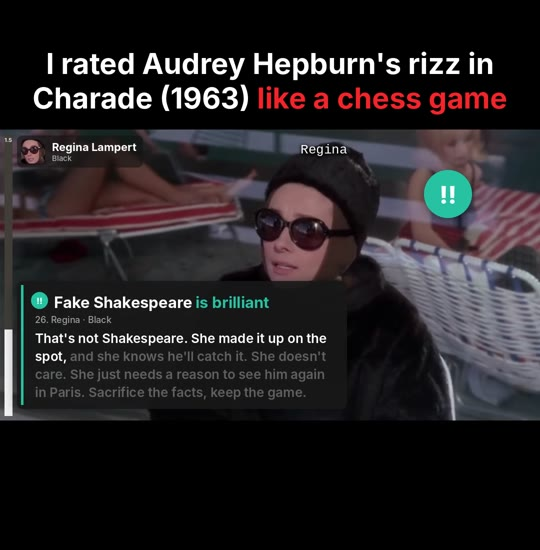
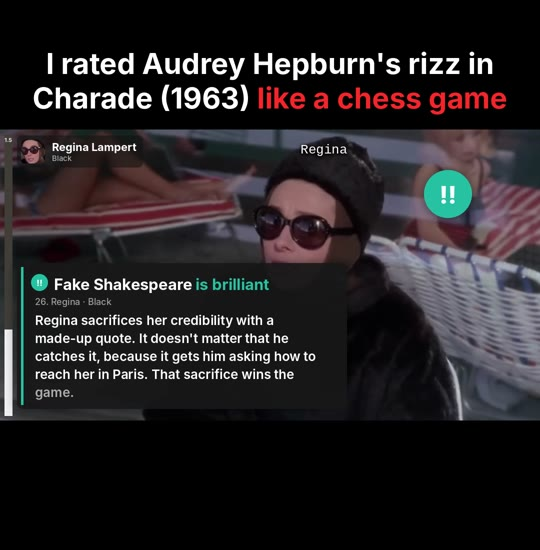
chess-rater: chess.com sounds, coach-style narration, readable captions
- Use the official chess.com sound theme (move, capture, check, game
  start/end, notify), fetched from chess.com on first render instead of
  bundled; replaces the synthesized effects.
- Card voice-overs open with the Game Review coach phrase for the move's
  rating ("That's a blunder!", "Excellent move.").
- Card text is always readable: no blur on the hook card, and words not
  yet spoken stay light grey instead of faded.
- Header wording matches chess.com ("is a great move").
- Re-rate the Charade demo the way chess.com would (one brilliant, mostly
  good/excellent, honest inaccuracies) and rewrite comments in coach style.
- README: rating guide, coach-style writing tips, sound options.

Claude-Session: https://claude.ai/code/session_0191FxL3gznTFuEVCnR41hVc

diff --git a/chess-rater/chessrate.py b/chess-rater/chessrate.py
@@ -41,7 +41,7 @@ KOKORO_URLS = {
 # key: (label, card phrase, colour, glyph, accuracy score)
 CLASSES = {
     "brilliant": ("Brilliant", "is brilliant", "#26c2a3", "!!", 100),
-    "great": ("Great", "is great", "#749bbf", "!", 100),
+    "great": ("Great", "is a great move", "#749bbf", "!", 100),
     "best": ("Best", "is best", "#81b64c", "star", 100),
     "excellent": ("Excellent", "is excellent", "#81b64c", "thumb", 92),
     "good": ("Good", "is good", "#95b776", "check", 80),
@@ -51,6 +51,24 @@ CLASSES = {
     "miss": ("Miss", "is a miss", "#ff7769", "x", 30),
     "blunder": ("Blunder", "is a blunder", "#fa412d", "??", 15),
 }
+
+# what the Game Review coach says before explaining a move
+COACH_INTRO = {
+    "brilliant": "Brilliant!",
+    "great": "Great move!",
+    "best": "That's the best move.",
+    "excellent": "Excellent move.",
+    "good": "Good move.",
+    "book": "That's a book move.",
+    "inaccuracy": "That's an inaccuracy.",
+    "mistake": "That's a mistake.",
+    "miss": "That's a miss.",
+    "blunder": "That's a blunder!",
+}
+POSITIVE = {"brilliant", "great", "best", "excellent", "good", "book"}
+
+# official chess.com sound theme, fetched on first use (not redistributed with this repo)
+SOUND_URL = "https://images.chesscomfiles.com/chess-themes/sounds/_MP3_/default/{}.mp3"
 
 WHITE = (255, 255, 255, 255)
 ACCENT = "#f2242b"
@@ -451,27 +469,17 @@ def word_times(display_text, spans):
 
 
 # --------------------------------------------------------------------------
-# synthesized sound effects
+# sound effects (chess.com sound theme)
 
-def sfx_tock():
-    n = int(0.12 * SR)
-    t = np.arange(n) / SR
-    body = (np.sin(2 * np.pi * 540 * t) * 0.55 + np.sin(2 * np.pi * 1180 * t) * 0.22) * np.exp(-t * 48)
-    click = np.random.default_rng(1).standard_normal(n) * np.exp(-t * 900) * 0.25
-    return ((body + click) * 0.32).astype(np.float32)
-
-
-def sfx_whoosh(d=0.75):
-    n = int(d * SR)
-    x = np.random.default_rng(2).standard_normal(n).astype(np.float32)
-    y = np.zeros(n, np.float32)
-    coef = np.linspace(0.45, 0.04, n)
-    acc = 0.0
-    for i in range(n):
-        acc += coef[i] * (x[i] - acc)
-        y[i] = acc
-    env = np.sin(np.linspace(0, np.pi, n)) ** 1.5
-    return (y * env * 0.5 / (np.max(np.abs(y)) + 1e-6)).astype(np.float32)
+def load_sound(name, folder):
+    path = os.path.join(folder, name + ".mp3")
+    if not os.path.exists(path):
+        os.makedirs(folder, exist_ok=True)
+        urllib.request.urlretrieve(SOUND_URL.format(name), path + ".part")
+        os.replace(path + ".part", path)
+    raw = run(["ffmpeg", "-v", "error", "-i", path, "-ac", "1", "-ar", str(SR), "-f", "f32le", "-"],
+              capture_output=True).stdout
+    return np.frombuffer(raw, np.float32).copy()
 
 
 # --------------------------------------------------------------------------
@@ -565,15 +573,20 @@ class Project:
             t += dur
             return sp
 
+        coach = cfg.get("coach_intro", True)
+
         def card_hold(move, phase, vo_text, blur=False):
-            audio, spans = self.voice.say(vo_text)
+            intro = COACH_INTRO[move["class"]] if coach and not blur else ""
+            audio, spans = self.voice.say((intro + " " + vo_text).strip())
+            if intro:
+                spans = spans[len(split_sentences(speakable(intro))):] or spans
             lead, tail = 0.45, 0.7
             sp = hold(move["t"], lead + len(audio) / SR + tail, phase)
             self.clips.append(Clip(sp.t0 + lead, audio))
             words = [sp.t0 + lead + w for w in word_times(move.get("comment", vo_text), spans)]
             show = Show(len(self.shows), move, sp.t0, sp.t1, True, blur, words)
             self.shows.append(show)
-            self.sfx.append((sp.t0, "tock"))
+            self.sfx.append((sp.t0, self.move_sound(move)))
             if "eval" in move:
                 self.evals.append((sp.t0, move["eval"], True))
             return sp
@@ -588,7 +601,7 @@ class Project:
             card_hold(hook_move, "hook", hook.get("vo", ""), blur=True)
             self.spans.append(Span("rewind", t, t + 0.8, hook_move["t"], main_start, "hook"))
             self.evals.append((t, 0.0, True))
-            self.sfx.append((t, "whoosh"))
+            self.sfx.append((t, "premove"))
             t += 0.8
         else:
             self.evals.append((0.0, 0.0, False))
@@ -620,7 +633,7 @@ class Project:
             if ot is None:
                 continue
             self.shows.append(Show(len(self.shows), m, ot, ot + 2.8, False))
-            self.sfx.append((ot, "tock"))
+            self.sfx.append((ot, self.move_sound(m)))
             if "eval" in m:
                 self.evals.append((ot, m["eval"], True))
         # review panel + outro voice-over, then hold on the final frame
@@ -637,6 +650,11 @@ class Project:
             if sp.t0 >= self.review_t - 1e-6 and sp.phase == "main":
                 sp.phase = "review"
         self.duration = t
+        self.sfx.append((0.0, "game-start"))
+        if not any(name == "game-end" and self.review_t - 4 <= at <= self.review_t for at, name in self.sfx):
+            self.sfx.append((self.review_t, "game-end"))
+        else:
+            self.sfx.append((self.review_t, "notify"))
         # each move stays on screen until the next one appears
         self.shows.sort(key=lambda s: s.t0)
         for a, b in zip(self.shows, self.shows[1:]):
@@ -649,6 +667,16 @@ class Project:
         for s in self.shows:
             s.t1 = min(s.t1, self.review_t)
         self.evals.sort(key=lambda e: e[0])
+
+    @staticmethod
+    def move_sound(move):
+        if isinstance(move.get("eval"), str) and move["eval"] in ("1-0", "0-1"):
+            return "game-end"
+        if move.get("comment"):
+            return "capture" if move["class"] in POSITIVE else "move-check"
+        if move["class"] not in POSITIVE:
+            return "move-check" if move["class"] in ("mistake", "blunder") else "move-opponent"
+        return "move-self" if move["side"] == "white" else "move-opponent"
 
     def find_move(self, name):
         for m in self.moves:
@@ -838,11 +866,9 @@ class Renderer:
         for li, line in enumerate(lines):
             x = pad + 8
             for wi in line:
-                c = WHITE if wi < lit else (255, 255, 255, 82)
+                c = WHITE if wi < lit else (255, 255, 255, 165)
                 draw_text(body, (x, li * line_h), words[wi], bf, c)
                 x += bf.getlength(words[wi]) + space
-        if show.blur:
-            body = body.filter(ImageFilter.GaussianBlur(7))
         img.alpha_composite(body, (0, 98))
         out = with_shadow(img, 12, 150)
         self.cache[key] = out
@@ -973,7 +999,8 @@ class Renderer:
             b = b.resize((max(1, int(b.width * s)), max(1, int(b.height * s))), Image.LANCZOS)
         alpha_paste(clip, fade(b, alpha), (cx - b.width / 2, cy - b.height / 2 + 2 * s))
         if show.card:
-            img = self.card(show, sum(1 for wt in show.words if wt <= t))
+            lit = len(show.words) if show.blur else sum(1 for wt in show.words if wt <= t)
+            img = self.card(show, lit)
             ca = clamp((age - 0.15) / 0.25, 0, 1)
             side = self.card_side(move)
             pad = 24  # shadow padding
@@ -1092,9 +1119,13 @@ def build_audio(p, t_from, t_to):
             if j1 > j0:
                 duck[i + j0:i + j1] = np.minimum(duck[i + j0:i + j1], env[j0:j1])
     if p.cfg.get("sfx", True):
-        tock, whoosh = sfx_tock(), sfx_whoosh()
-        for at, kind in p.sfx:
-            place(fx, at, tock if kind == "tock" else whoosh)
+        folder = os.path.join(p.base, p.cfg["sounds"]) if p.cfg.get("sounds") else os.path.join(HERE, "sounds")
+        gain = float(p.cfg.get("sfx_volume", 0.7))
+        cache = {}
+        for at, name in p.sfx:
+            if name not in cache:
+                cache[name] = load_sound(name, folder)
+            place(fx, at, cache[name], gain)
     mix = scene * duck[:, None] + (vo * 1.0 + fx)[:, None]
     return np.clip(mix, -1, 1)
 

diff --git a/chess-rater/README.md b/chess-rater/README.md
@@ -10,7 +10,9 @@ commentary). It renders a finished 1080×1920 MP4 with:
 - chess.com-style player tags (White at the bottom, Black at the top) and a live eval bar
 - name labels over each character, shot by shot
 - move badges (`!!` brilliant, `!` great, ★ best, 👍 excellent, ✓ good, 📖 book, `?!`, `?`, ✕, `??`)
-- freeze frames with a commentary card, read aloud by an AI voice while the words light up
+- freeze frames with a commentary card, read aloud by an AI voice in chess.com Game Review
+  coach style ("That's a blunder!", "Excellent move.") while the words light up
+- the official chess.com move, capture, check and game start/end sounds
 - a cold-open hook that teases the big move, then rewinds to the start
 - a closing **Game Review** with accuracy scores, move counts and the result
 
@@ -26,7 +28,10 @@ Everything runs locally and needs no paid services. The voice-over uses
    pip install -r requirements.txt
    ```
 
-The first render downloads the voice model (about 340 MB) into `models/`.
+The first render downloads the voice model (about 340 MB) into `models/` and the chess.com
+sound files into `sounds/`. The sounds are fetched from chess.com's site and aren't stored in
+this repo. Set `"sfx": false` to turn them off, or point `"sounds"` at a folder with your own
+`move-self.mp3`, `capture.mp3`, and so on.
 
 ## Render the demo
 
@@ -70,6 +75,8 @@ of the video frame: `0,0` is top-left and `1,1` is bottom-right.
   "title": {"text": "I rated Mike Ross's job interview", "accent": "like a chess game"},
   "voice": "af_heart",            // Kokoro voice: af_heart, af_bella, am_michael, am_puck, bm_george, ...
   "speed": 1.05,
+  "coach_intro": true,            // each card's voice-over starts "That's a blunder!", "Excellent move." ...
+  "sfx_volume": 0.7,              // chess.com sounds: move/capture on badges, check on bad cards, game start/end
   "crop": "auto",                 // trims letterbox bars; or [w, h, x, y]; or false
   "players": {
     "white": {"name": "Mike Ross", "short": "Mike",
@@ -107,6 +114,26 @@ of the video frame: `0,0` is top-left and `1,1` is bottom-right.
   a left card briefly hides the bottom player tag. Pick the side that keeps faces visible.
 - **Timing**: the freeze lasts as long as the voice-over, so keep each comment to about
   25–40 words.
+
+## Rating guide
+
+Rate lines the way chess.com rates moves, and don't inflate the ratings:
+
+| Rating | Use it for | How often |
+|---|---|---|
+| Brilliant `!!` | the single best line, usually a "sacrifice" that wins anyway | once per video at most |
+| Great `!` | the only reply that saves or wins the exchange | 1–2 |
+| Best ★ | the strongest possible reply in that moment | a few |
+| Excellent 👍 | clever, strong lines | often |
+| Good ✓ | solid, normal lines | most common |
+| Book 📖 | standard openers ("Hi, nice to meet you") | opening only |
+| Inaccuracy `?!` / Mistake `?` / Blunder `??` | weak, bad and game-losing lines | as deserved |
+
+Write card comments the way the Game Review coach talks: say what the move does, then where
+the game stands. For example: *"He accepted the rejection, so she punishes him for it. Black
+keeps the initiative."* The coach's opener ("That's the best move.") is added automatically.
+Check every quote and speaker against the clip. The scout transcript and contact sheet are
+there for that.
 
 ## Posting
 
